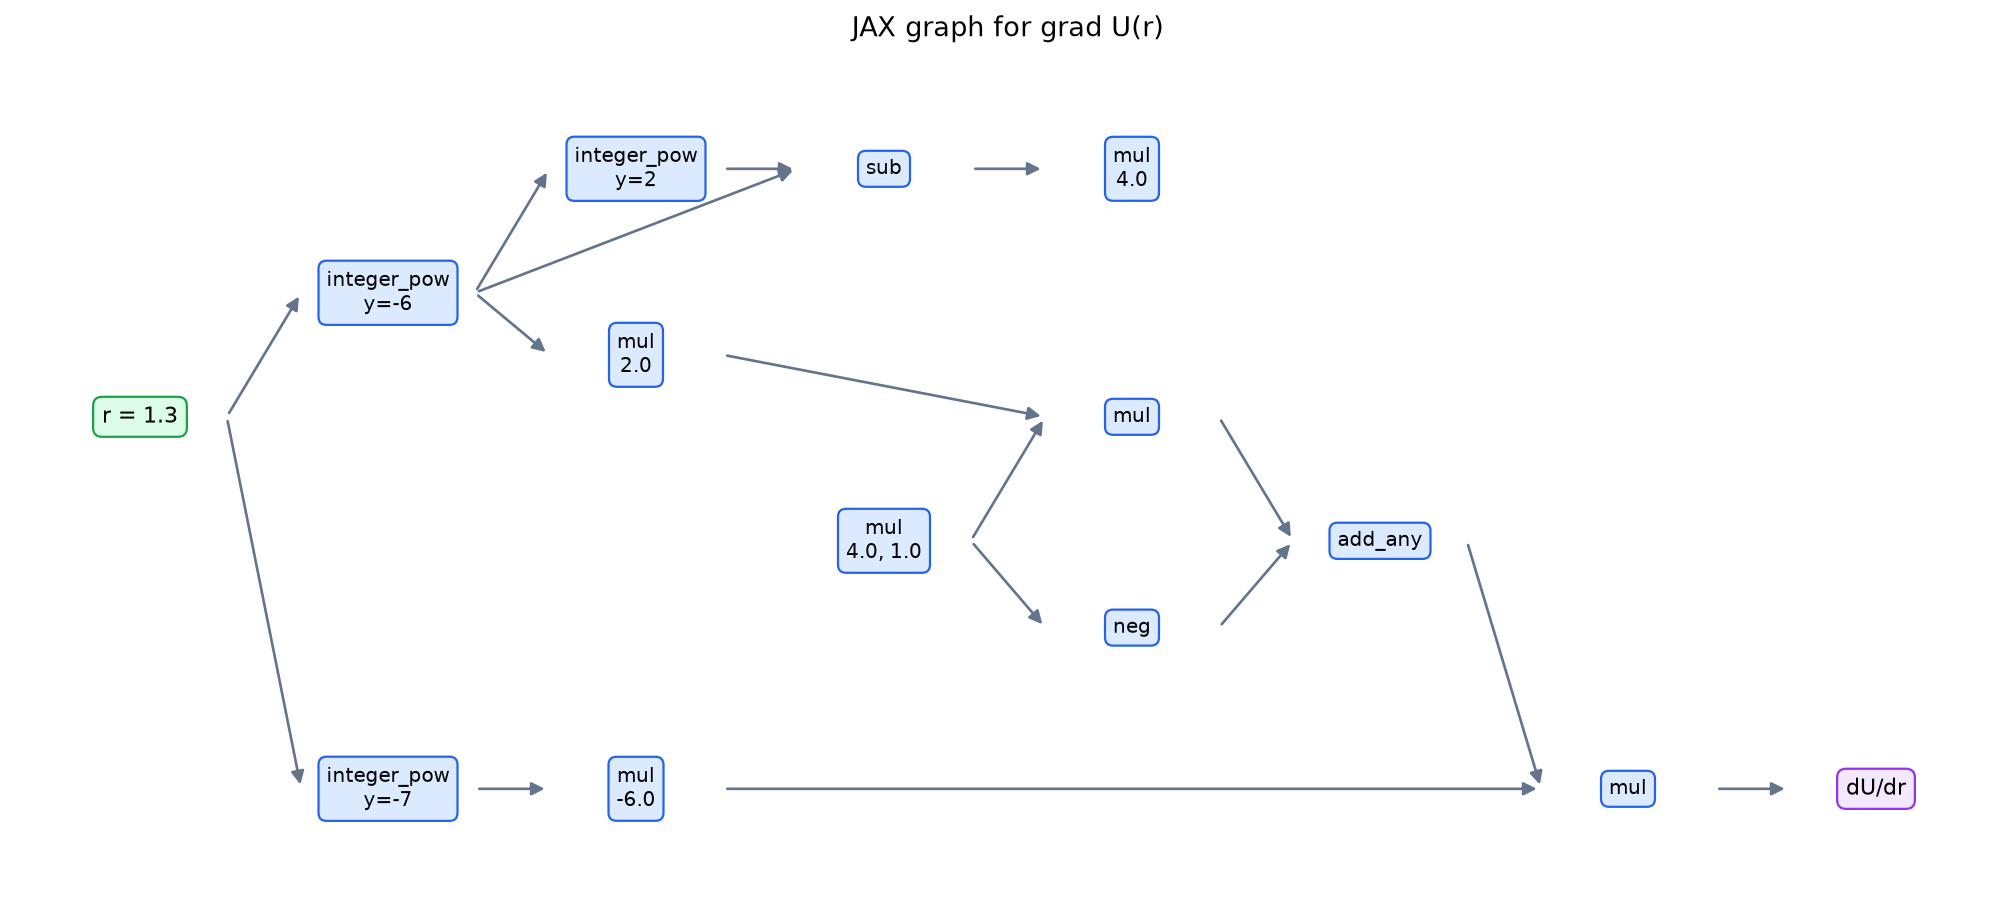
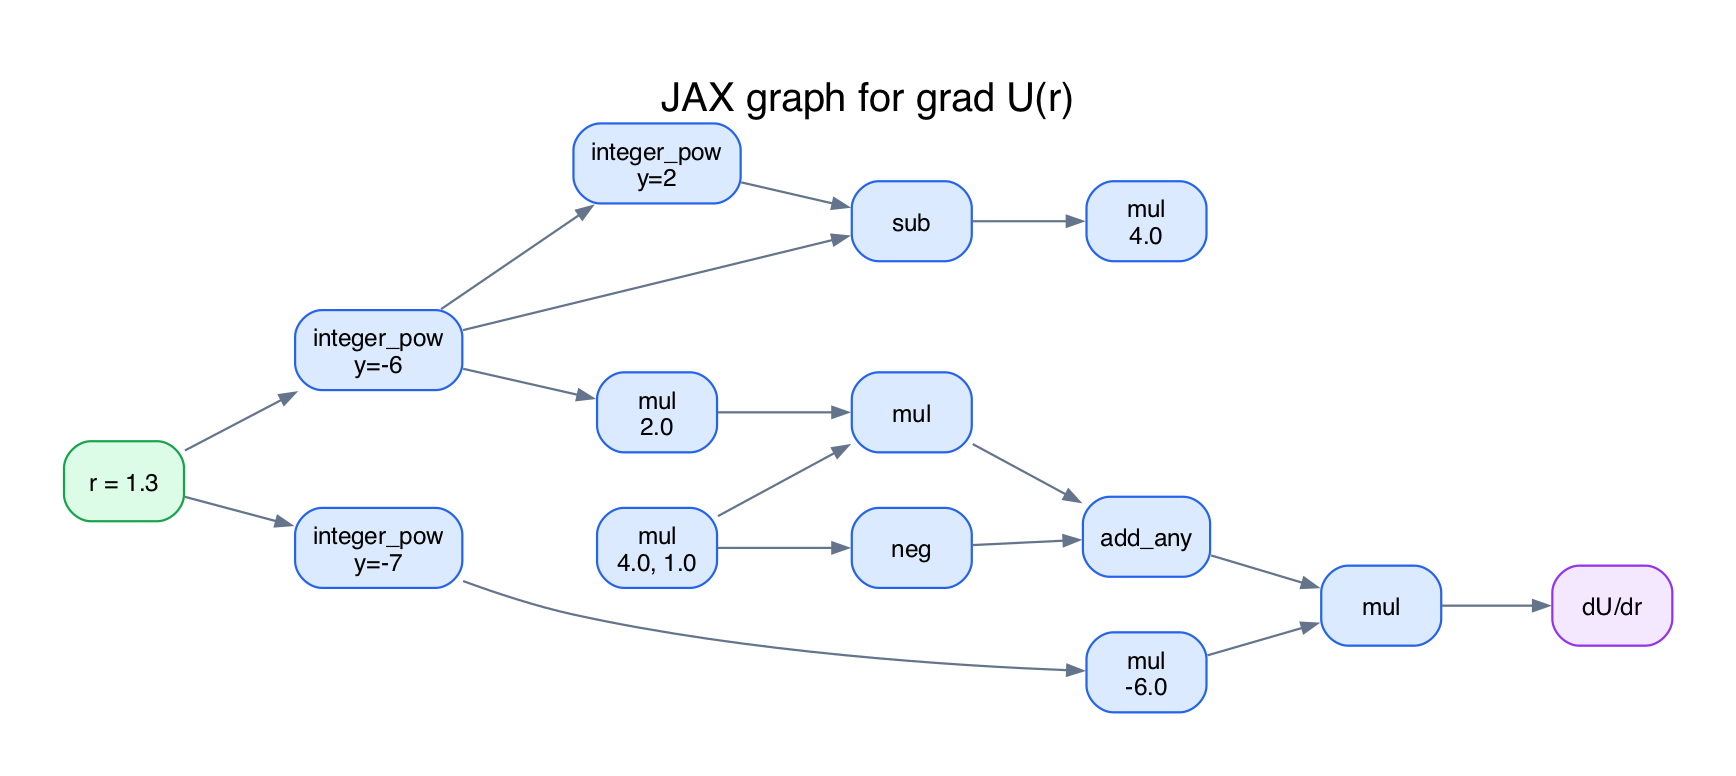
Render JAX computation graphs with Graphviz

diff --git a/week5/scripts/graphs.py b/week5/scripts/graphs.py
@@ -1,74 +1,42 @@
-"""Run with: uv run --no-project --with jax --with matplotlib python week5/scripts/graphs.py"""
+"""Run with: uv run --no-project --with jax python week5/scripts/graphs.py"""
 
+import json
+import subprocess
 from pathlib import Path
 
 import jax
 import jax.numpy as jnp
-import matplotlib
-
-matplotlib.use("Agg")
-import matplotlib.pyplot as plt
-from matplotlib.patches import FancyArrowPatch
 
 from derivatives import primal
 
 
-def draw(jaxpr, positions, title, output_label, path):
-    xs, ys = zip(*positions.values())
-    fig, ax = plt.subplots(figsize=(max(xs) + 2, max(ys) - min(ys) + 2))
-    ax.set_aspect("equal")
-    ax.axis("off")
-    ax.set_title(title, pad=15)
-
-    producer = {jaxpr.jaxpr.invars[0]: "r"}
-    for index, eqn in enumerate(jaxpr.jaxpr.eqns):
-        for var in eqn.outvars:
-            producer[var] = index
-
-    def arrow(source, target):
-        x0, y0 = positions[source]
-        x1, y1 = positions[target]
-        ax.add_patch(FancyArrowPatch((x0 + 0.7, y0), (x1 - 0.7, y1),
-                                     arrowstyle="-|>", mutation_scale=12,
-                                     linewidth=1.2, color="#64748b"))
-
-    for index, eqn in enumerate(jaxpr.jaxpr.eqns):
-        for var in eqn.invars:
-            if not hasattr(var, "val"):
-                arrow(producer[var], index)
-    arrow(producer[jaxpr.jaxpr.outvars[0]], "output")
-
-    ax.text(*positions["r"], "r = 1.3", ha="center", va="center",
-            bbox=dict(boxstyle="round,pad=0.4", facecolor="#dcfce7", edgecolor="#16a34a"))
+def draw(jaxpr, title, output_label, path):
+    lines = [
+        "digraph G {",
+        f"graph [rankdir=LR, dpi=160, pad=0.4, nodesep=0.35, ranksep=0.7, labelloc=t, label={json.dumps(title)}, fontname=Helvetica, fontsize=18];",
+        'node [shape=box, style="rounded,filled", fillcolor="#dbeafe", color="#2563eb", fontname=Helvetica, fontsize=11];',
+        'edge [color="#64748b", arrowsize=0.7];',
+        'input [label="r = 1.3", fillcolor="#dcfce7", color="#16a34a"];',
+        f'output [label={json.dumps(output_label)}, fillcolor="#f3e8ff", color="#9333ea"];',
+    ]
+    producer = {jaxpr.jaxpr.invars[0]: "input"}
     for index, eqn in enumerate(jaxpr.jaxpr.eqns):
         details = [f"y={eqn.params['y']}"] if "y" in eqn.params else []
         details += [str(var.val) for var in eqn.invars if hasattr(var, "val")]
         label = eqn.primitive.name + ("\n" + ", ".join(details) if details else "")
-        ax.text(*positions[index], label, ha="center", va="center", fontsize=9,
-                bbox=dict(boxstyle="round,pad=0.4", facecolor="#dbeafe", edgecolor="#2563eb"))
-    ax.text(*positions["output"], output_label, ha="center", va="center",
-            bbox=dict(boxstyle="round,pad=0.4", facecolor="#f3e8ff", edgecolor="#9333ea"))
-
-    ax.set_xlim(min(xs) - 1, max(xs) + 1)
-    ax.set_ylim(min(ys) - 0.8, max(ys) + 0.8)
-    fig.savefig(path, dpi=160, bbox_inches="tight")
-    plt.close(fig)
+        lines.append(f"op{index} [label={json.dumps(label)}];")
+        for var in eqn.invars:
+            if not hasattr(var, "val"):
+                lines.append(f"{producer[var]} -> op{index};")
+        for var in eqn.outvars:
+            producer[var] = f"op{index}"
+    lines += [f"{producer[jaxpr.jaxpr.outvars[0]]} -> output;", "}"]
+    subprocess.run(["dot", "-Tpng", "-o", str(path)], input="\n".join(lines), text=True, check=True)
 
 
 r = jnp.float64(1.3)
 energy = lambda x: primal(x)[-1]
-energy_graph = jax.make_jaxpr(energy)(r)
-gradient_graph = jax.make_jaxpr(jax.grad(energy))(r)
-
-energy_positions = {"r": (0, 0), 0: (2, 0), 1: (4, 1), 2: (6, 0), 3: (8, 0), "output": (10, 0)}
-gradient_positions = {
-    "r": (0, 0),
-    0: (2, 1), 1: (2, -3), 2: (4, -3), 3: (4, 2), 4: (4, 0.5),
-    5: (6, 2), 6: (8, 2), 7: (6, -1), 8: (8, -1.7), 9: (8, 0),
-    10: (10, -1), 11: (12, -3), "output": (14, -3),
-}
-
 output_dir = Path(__file__).resolve().parents[1] / "artifacts/ad"
 output_dir.mkdir(parents=True, exist_ok=True)
-draw(energy_graph, energy_positions, "JAX graph for U(r)", "U", output_dir / "graph.png")
-draw(gradient_graph, gradient_positions, "JAX graph for grad U(r)", "dU/dr", output_dir / "grad-graph.png")
+draw(jax.make_jaxpr(energy)(r), "JAX graph for U(r)", "U", output_dir / "graph.png")
+draw(jax.make_jaxpr(jax.grad(energy))(r), "JAX graph for grad U(r)", "dU/dr", output_dir / "grad-graph.png")

diff --git a/week5/scripts/test_graphs.py b/week5/scripts/test_graphs.py
@@ -1,4 +1,4 @@
-"""Run with: uv run --no-project --with jax --with matplotlib python week5/scripts/test_graphs.py"""
+"""Run with: uv run --no-project --with jax --with pillow python week5/scripts/test_graphs.py"""
 
 import subprocess
 import sys
